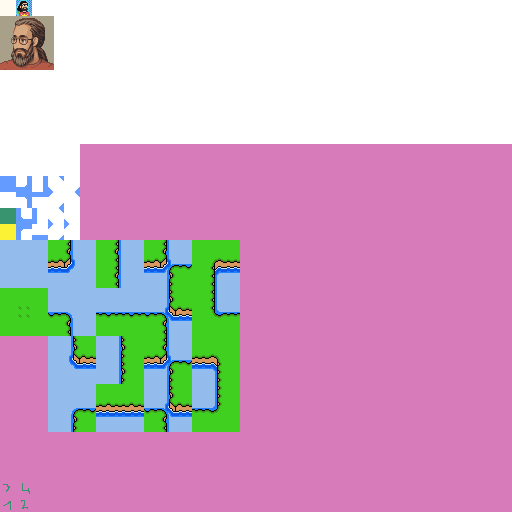
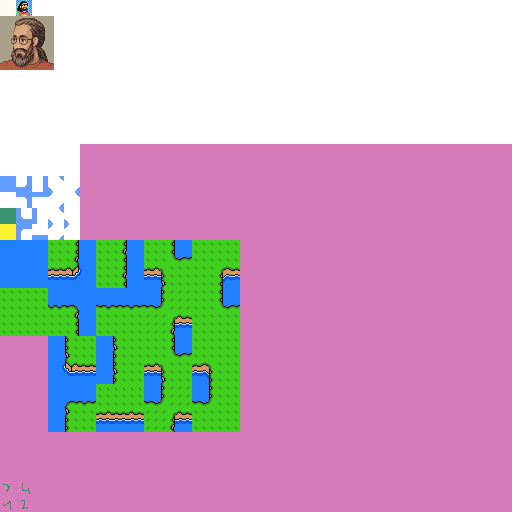
Fix inputs.window_resized not resetting correctly and update tileset

Changed region(s): [[0.0, 0.4688, 0.4688, 0.8438]]

diff --git a/src/game.ts b/src/game.ts
@@ -138,30 +138,32 @@ function main() {
     fixed_array_add(game.entities, { name: "ENTITY_5", sprite: { color: COLOR_YELLOW(), position: [(10+2)*16, (10+1)*16], size: [16, 16], scale: [1, 1], rotation: 0, texture_size: [16, 16], texture_position: [16, 0], z_index: 4 } });
 
     // :init world
-    const world = [
-        0, 0, 0, 1, 1, 1, 1, 1, 1, 1,
-        0, 1, 0, 1, 1, 1, 1, 1, 1, 1,
-        0, 0, 1, 0, 0, 0, 0, 1, 1, 1,
-        1, 1, 0, 0, 0, 0, 0, 0, 0, 1,
-        1, 1, 0, 0, 0, 0, 0, 1, 1, 1,
-        1, 1, 0, 0, 0, 0, 0, 1, 1, 1,
-        1, 1, 0, 0, 0, 1, 1, 1, 1, 1,
-        1, 1, 0, 0, 0, 1, 1, 1, 1, 1,
-        1, 1, 0, 0, 0, 0, 0, 0, 0, 1,
-        0, 1, 1, 1, 1, 1, 1, 1, 1, 1,
-    ];
+    const world_str = `
+        1 0 0 0 0 1 1 0 0 0
+        1 0 0 0 0 0 0 0 0 1
+        0 0 1 1 1 1 1 0 0 1
+        1 1 1 1 1 1 1 0 0 1
+        0 0 0 0 0 0 0 1 0 1
+        0 0 0 0 0 0 0 1 1 1
+        0 1 0 1 0 1 1 1 1 1
+        0 0 1 0 0 1 1 1 1 1
+        0 1 1 1 1 0 0 0 0 1
+        0 1 1 1 1 1 1 1 1 1
+    `;
+    const world = world_str.replace(/\s/g, "").split("");
     assert(world.length === WORLD_GRID_HEIGHT * WORLD_GRID_WIDTH);
     for (let y = 0; y < WORLD_GRID_HEIGHT; y++) {
         for (let x = 0; x < WORLD_GRID_WIDTH; x++) {
             const grid_index = grid_position_to_index([x, y], WORLD_GRID_WIDTH);
             game.world_grid[grid_index] = {
-                value:              world[grid_index],
+                value:              parseInt(world[grid_index]),
             };
         }
     }
     // :init tile
-    document.addEventListener("keydown", inputs_on_key, false);
-    document.addEventListener("keyup", inputs_on_key, false);
+    window.addEventListener("resize", window_on_resize, false);
+    window.addEventListener("keydown", inputs_on_key, false);
+    window.addEventListener("keyup", inputs_on_key, false);
 
     requestAnimationFrame(update);
 }
@@ -170,7 +172,6 @@ function update() {
     const gl = game.renderer.gl;
 
     game.renderer.sprites.count = 0;
-    game.inputs.window_resized = window.innerWidth !== game.renderer.window_size[0] || window.innerHeight !== game.renderer.window_size[1];
 
     if (game.inputs.window_resized) {
         renderer_resize_canvas(window.innerWidth, window.innerHeight);
@@ -281,7 +282,7 @@ function update() {
                 const tile_position = grid_index_to_position(tile_cell_index, TILE_GRID_WIDTH);
 
                 let color: Vector4 = [1.0, 1.0, 1.0, 1.0];
-                if ((tile_position[0]+tile_position[1]) % 2) { color = [0.9, 0.9, 0.9, 1.0]; }
+                if ((tile_position[0]+tile_position[1]) % 2) { color = [0.95, 0.95, 0.95, 1.0]; }
                 // color[3] *= 0.8;
 
                 const tile_value = calculate_tile_value(tile_position);
@@ -396,7 +397,7 @@ function renderer_resize_canvas(width: int, height: int) {
     game.renderer.window_size[1] = final_height;
     game.renderer.gl.canvas.width = game.renderer.window_size[0];
     game.renderer.gl.canvas.height = game.renderer.window_size[1];
-    console.log("window_size", game.renderer.window_size);
+    // console.log("window_size", game.renderer.window_size);
 }
 function renderer_init(): [Renderer, true] | [null, false] {
     const canvas = document.querySelector("canvas");
@@ -409,20 +410,19 @@ function renderer_init(): [Renderer, true] | [null, false] {
         return [null, false];
     }
 
-    // @ts-ignore
-    const renderer: Renderer = {};
-    renderer.gl = _gl;
+    const renderer: Renderer = {
+        // @ts-ignore
+        sprite_pass: {},
+        camera_main: CAMERA_DEFAULT,
+        sprites: fixed_array_make(MAX_SPRITES),
+        window_size: [0, 0],
+        gl: _gl,
+    };
 
     _gl.enable(_gl.BLEND);
     _gl.blendFunc(_gl.SRC_ALPHA, _gl.ONE_MINUS_SRC_ALPHA);
     _gl.getExtension("OES_standard_derivatives");
     _gl.getExtension("EXT_shader_texture_lod");
-
-    // @ts-ignore
-    renderer.sprite_pass = {};
-    renderer.camera_main = CAMERA_DEFAULT;
-    renderer.sprites = fixed_array_make(MAX_SPRITES);
-    renderer.window_size = [0, 0];
 
     return [renderer, true];
 }
@@ -714,6 +714,9 @@ function inputs_init(): Inputs {
         inputs.mouse_keys[key] = { pressed: false, down: false, released: false };
     }
     return inputs;
+}
+function window_on_resize(_event: Event) {
+    game.inputs.window_resized = true;
 }
 function inputs_on_key(event: KeyboardEvent) {
     if (!game.inputs.keys.hasOwnProperty(event.key)) {
